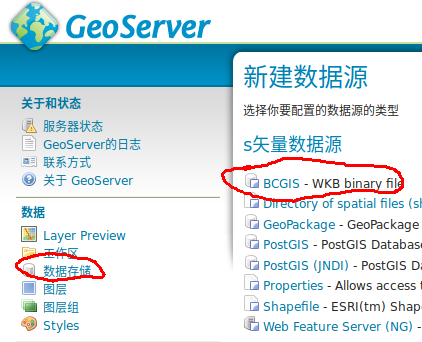
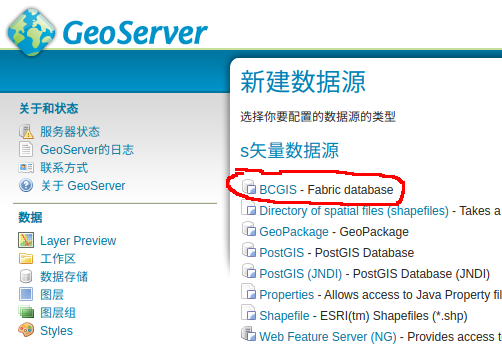
1、更新文档中的图片；2、增加数据格式说明文档。

diff --git a/src/main/java/com/atlchain/bcgis/data/BCGISDataStoreFactory.java b/src/main/java/com/atlchain/bcgis/data/BCGISDataStoreFactory.java
@@ -29,7 +29,7 @@ public class BCGISDataStoreFactory implements DataStoreFactorySpi {
     public String getDisplayName() { return "BCGIS"; }
 
     @Override
-    public String getDescription() { return "Fabric database"; }
+    public String getDescription() { return "Fabric Database"; }
 
     @Override
     public boolean isAvailable() { return true; }

diff --git a/docs/data_structure.md b/docs/data_structure.md
@@ -1,0 +1,14 @@
+# 数据存储格式
+
+BCGIS引擎在存储空间几何数据时，将空间几何信息和属性分开存储，它们之间的关系通过文件生成的唯一 hash 进行关联；将 shp 文件提取出空间几何信息和属性
+信息之后可分为总记录、单条 geometry 空间信息和单条 geometry 属性信息三部分进行存储，具体存储格式如下所示。
+
+![img](images/data_structure.png)
+
+关键字段说明：
+
+1. 总记录：主要用于记录待存储文件必要的属性信息
+2. 单条 geometry 空间信息存储：主要存储单个 geometry 的空间几何信息
+3. 单条 geometry 属性存储：主要用于存储单个 geometry 的属性信息，并与空间信息存储的 hash 相关联
+具体代码见： BCGISDataStore.java 中的 putDataOnBlockchain
+
